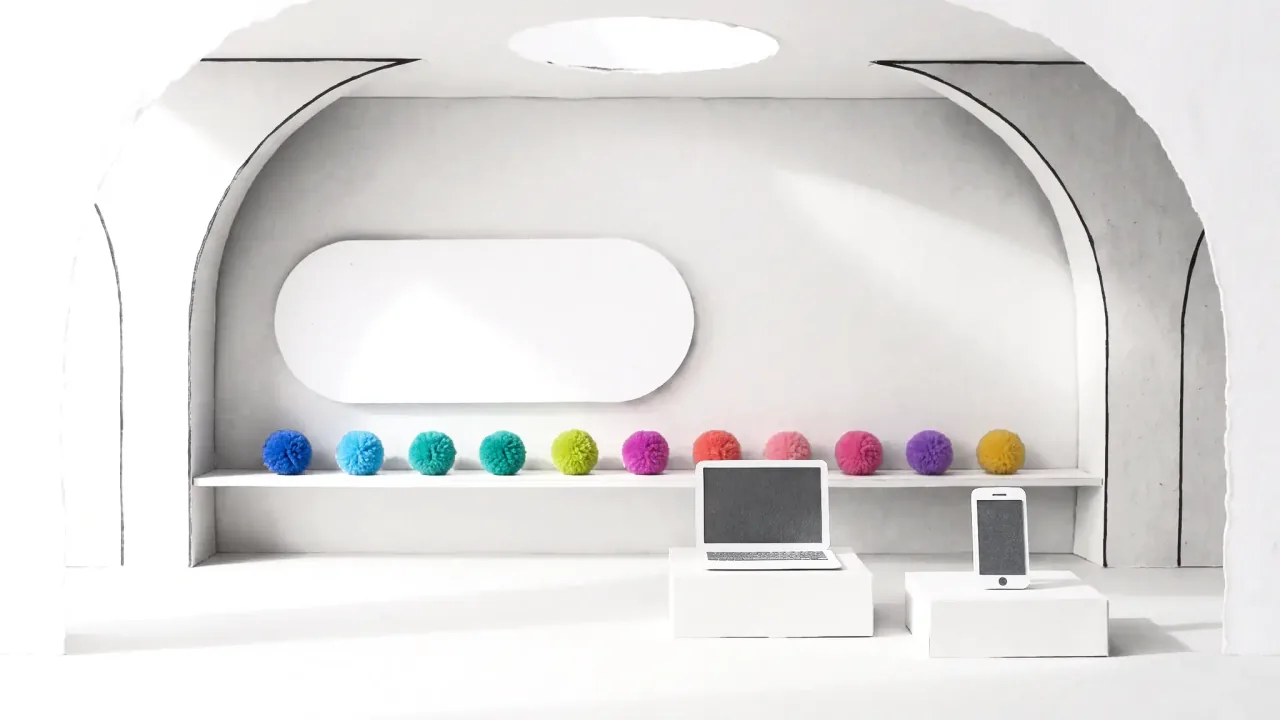
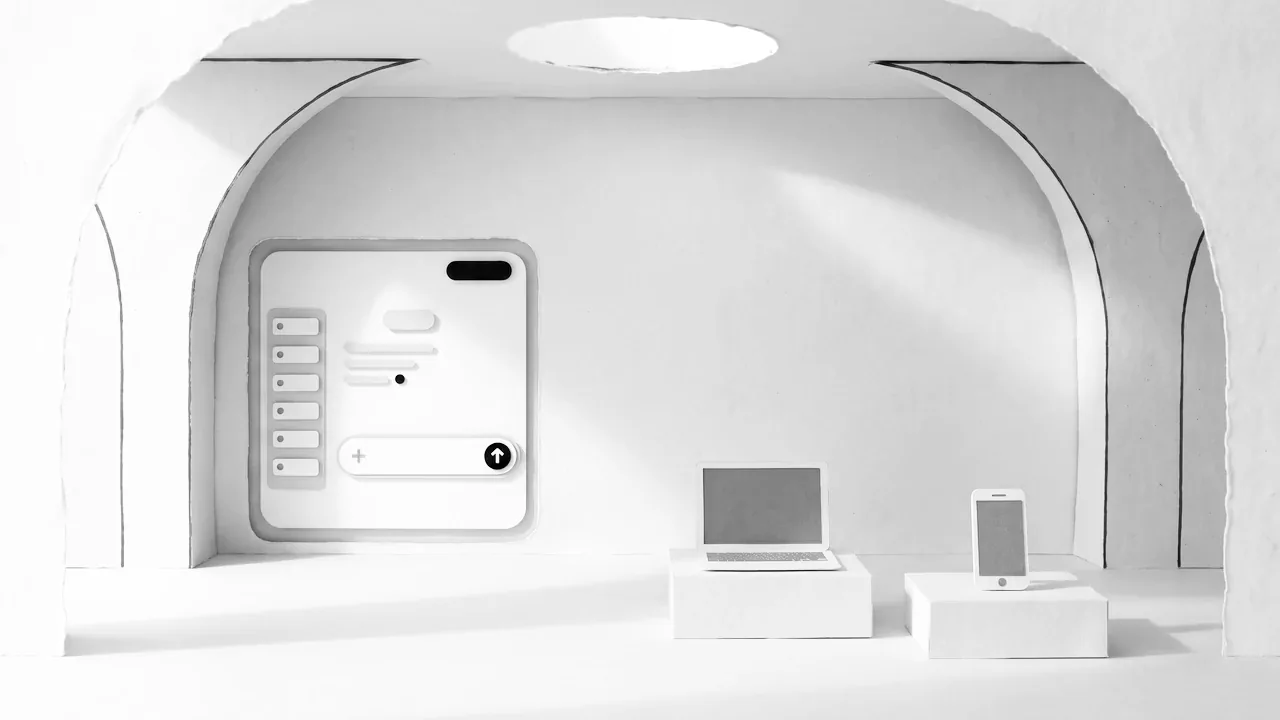
AI landscape: OpenAI's room is the chat window in ink and white, with the message bar docked at the foot of the open beat
The wall is a new picture: the same white gallery with a chat window built as paper relief (a side strip of blank
rows, a short exchange, the message bar with its round black button). Its tones are lifted so the room is white
paper, not grey. The shelf of coloured balls and the three coloured creatures are gone, so the yellow figure is the
one colour in the room. The message bar the wall carried at the top left is now a piece drawn in code that stands in
front, at the foot of the frame under the chat window, for the open beat. It is whole or absent, and never on a phone.

Claude-Session: https://claude.ai/code/session_01UUo1wzi92hMu5UTjUtuMsg

diff --git a/src/scripts/ai-landscape/2026-11-10/scene/world.js b/src/scripts/ai-landscape/2026-11-10/scene/world.js
@@ -111,7 +111,16 @@ export function createWorlds(ctx) {
       return mesh;
     };
     inst.parts.props = cfg.props.slice(0, ctx.quality.props).map((p, k) => cut(cfg.art.props[(p.file || k + 1) - 1], p, -6 + k));
-    if (cfg.fore && cfg.art.fore) inst.parts.fore = cut(cfg.art.fore, cfg.fore, 12);
+    if (cfg.fore && cfg.art.fore && !cfg.fore.draw) inst.parts.fore = cut(cfg.art.fore, cfg.fore, 12);
+    // a foreground piece drawn in code (fore.draw names a textures function, as sign.draw does), its height from the
+    // drawing: no contact shadow, and none on a phone, where it would stand over the floors of the open stack
+    if (cfg.fore && cfg.fore.draw && !ctx.phone) {
+      const f = cfg.fore, tex = textures[f.draw]();
+      const mesh = new Mesh(new PlaneGeometry(f.w, (f.w * tex.image.height) / tex.image.width), mats.paper(tex, { side: 1, blended: true, opacity: 0 }));
+      mesh.renderOrder = 12; mesh.visible = false;
+      group.add(mesh);
+      inst.parts.dock = mesh;
+    }
 
     // dust: slow motes in the world's light colour
     if (ctx.quality.dust > 0) {
@@ -163,7 +172,7 @@ export function createWorlds(ctx) {
       return mounted.get(cfg.id);
     },
     unmount(id) { const inst = mounted.get(id); if (inst) { inst.dispose(); mounted.delete(id); if (worlds.active === inst) worlds.active = null; } },
-    reset() { for (const inst of mounted.values()) { inst.open = 0; inst.nameShow = 0; } },
+    reset() { for (const inst of mounted.values()) { inst.open = 0; inst.nameShow = 0; inst.dock = 0; } },
     resize(w, h, ratio) { size.w = w; size.h = h; size.ratio = ratio; chrome = null; },
 
     // Write the iris and the world's ground for whichever world is open this frame. inst.open: 0 shut .. 1 open.
@@ -209,6 +218,20 @@ export function createWorlds(ctx) {
         top.portraitK = ctx.reduced ? (top.portraitOn ? 1 : 0) : Math.max(0, Math.min(1, (top.portraitK || 0) + (top.portraitOn ? ctx.dt : -ctx.dt) / 0.18));
         f.visible = top.portraitK > 0.001;
         f.scale.setScalar(0.6 + 0.4 * top.portraitK);
+      }
+      // a docked piece stands whole or not at all: its section says how far it is in (inst.dock, 0 to 1), and it comes
+      // up from under its place only while all of it is inside the window. It follows the scroll, so it is still
+      const dock = top.parts.dock;
+      if (dock) {
+        const f = top.cfg.fore, e = top.dock || 0, hw = dock.geometry.parameters.width / 2, hh = dock.geometry.parameters.height / 2;
+        let whole = e > 0.001;
+        for (const [sx, sy] of CORNERS) {
+          v.set(f.x + sx * hw, f.y + sy * hh, f.z).add(top.group.position).project(cam);
+          if (Math.abs(v.x) > 1 - 16 / size.w || Math.abs(v.y) > 1 - 16 / size.h) whole = false;
+        }
+        dock.visible = whole;
+        dock.position.set(f.x, f.y - (1 - e) * 0.35, f.z);
+        dock.material.uniforms.uOpacity.value = e;
       }
       // a sign on the wall steps back while the name stands in front of it
       if (top.parts.sign) top.parts.sign.material.uniforms.uOpacity.value = 1 - top.nameShow;

diff --git a/src/scripts/ai-landscape/2026-11-10/worlds/openai.js b/src/scripts/ai-landscape/2026-11-10/worlds/openai.js
@@ -11,21 +11,19 @@ export default {
   marks: { of: 'name', plate: 'white', clear: 0.75 },          // never tinted, never beside the wordmark, three quarters of its height clear
   art: artOf('openai'),
   alt: {
-    plate: 'A white paper gallery at noon: low plinths, a pill-shaped message bar on the wall, a shelf of fuzzy balls in many colours, a laptop and a phone.',
+    plate: 'A white paper gallery at noon: a chat window in paper relief on the wall, with blank rows and a message bar, a laptop and a phone on low plinths.',
     hero: 'A round yellow felt figure with round black glasses and a small bow tie.',
     portrait: 'Cut-paper illustration of Sam Altman',
     person: 'Sam Altman',                                       // the gallery label under the frame: the name only
   },
   character: { kind: 'sprite', floor: 3, size: 1.15 },
-  backdrop: { y: -4.7, turn: -0.1 },                            // the plain wall inside the right arch stands right of the callouts
+  backdrop: { y: -4.7, turn: -0.068 },                          // the chat window's message bar ends left of the stack, the plain wall inside the right arch stands right of the callouts
   props: [
     { file: 3, z: -3.5, x: 7.6, y: 1.1, w: 2.6 },               // prop-3: an empty frame under a dust sheet, low on the right
-    { file: 2, z: -12, x: -5.9, y: 0.68, w: 1.7 },              // prop-2: three fuzzy balls on the floor, far back on the left
-  ],                                                            // prop-1, a second laptop on a plinth, is left out: the plate has one, and two crowded the frame
-  fore: null,                                                   // the white plinth at the front edge is left out: it read as a blank
-  // a message bar with no words (a plus, a caret, a microphone, the round send button), on the wall's blank lozenge
-  // left of the figure: the one place there that neither the figure, the stack nor the world's title line covers
-  sign: { draw: 'bar', x: -5.45, y: 6.6, w: 3.75, h: 0.67 },
+  ],                                                            // prop-1 (a second laptop) and prop-2 (three fuzzy balls in colour) are left out: the room is ink and white
+  // the message bar with no words (a plus, a caret, a microphone, the round send button), docked at the foot of the
+  // frame in front of the wall's chat window, as it is docked at the foot of the app. It stands there for the open beat
+  fore: { draw: 'bar', z: 5.6, x: -2.5, y: 1.09, w: 2.0 },
   portrait: { x: 12.5, y: 5.9 },                                // on the plain wall inside the right arch
   dust: '#C9CDD5',
   signature: 'openai',

diff --git a/src/scripts/ai-landscape/2026-11-10/sections/worlds.js b/src/scripts/ai-landscape/2026-11-10/sections/worlds.js
@@ -252,6 +252,9 @@ export function create(ctx, el, sec) {
 
       // the stack pulls apart from the top. The character stands large beside it, then hops onto its floor
       tower.open = smooth(span(u, 0.6, 1.0)) * (1 - smooth(span(u, 2.72, 2.9)));
+      // a piece docked at the foot of the frame (fore.draw) stands there for the open beat: it comes when the entry card
+      // has left that corner and goes before the next beat's card takes it
+      inst.dock = smooth(span(u, 0.82, 1.0)) * (1 - smooth(span(u, 1.5, 1.6)));
       const c = tower.char;
       if (u < 0.62) { c.from = 'floor'; c.to = 'beside'; c.t = smooth(span(u, 0.22, 0.52)); }
       else { c.from = 'beside'; c.to = 'floor'; c.t = easeIO(span(u, 0.62, 1.0)); }
